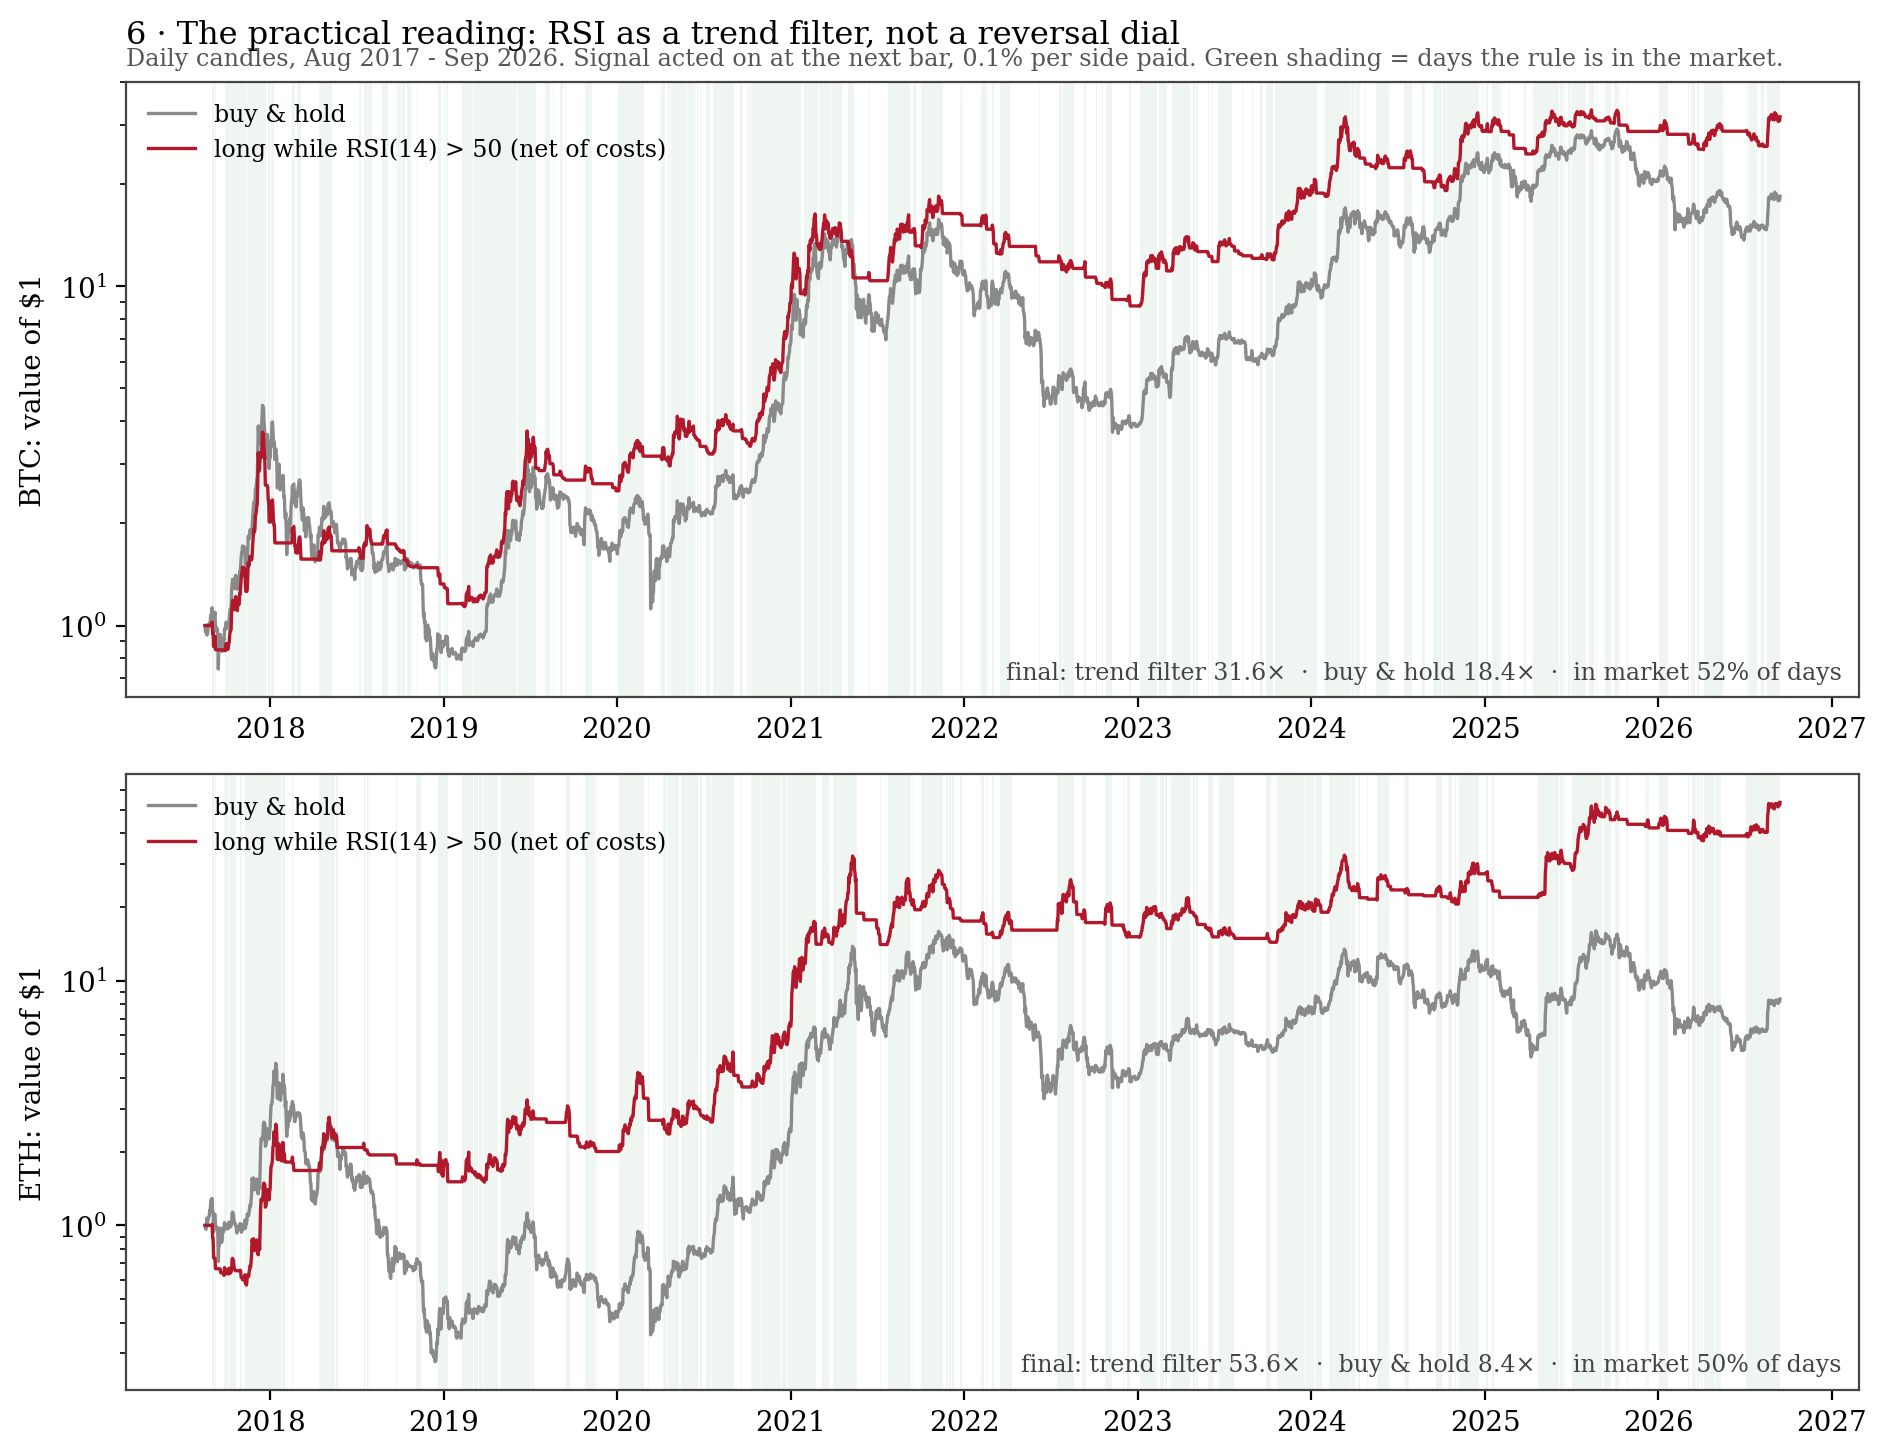
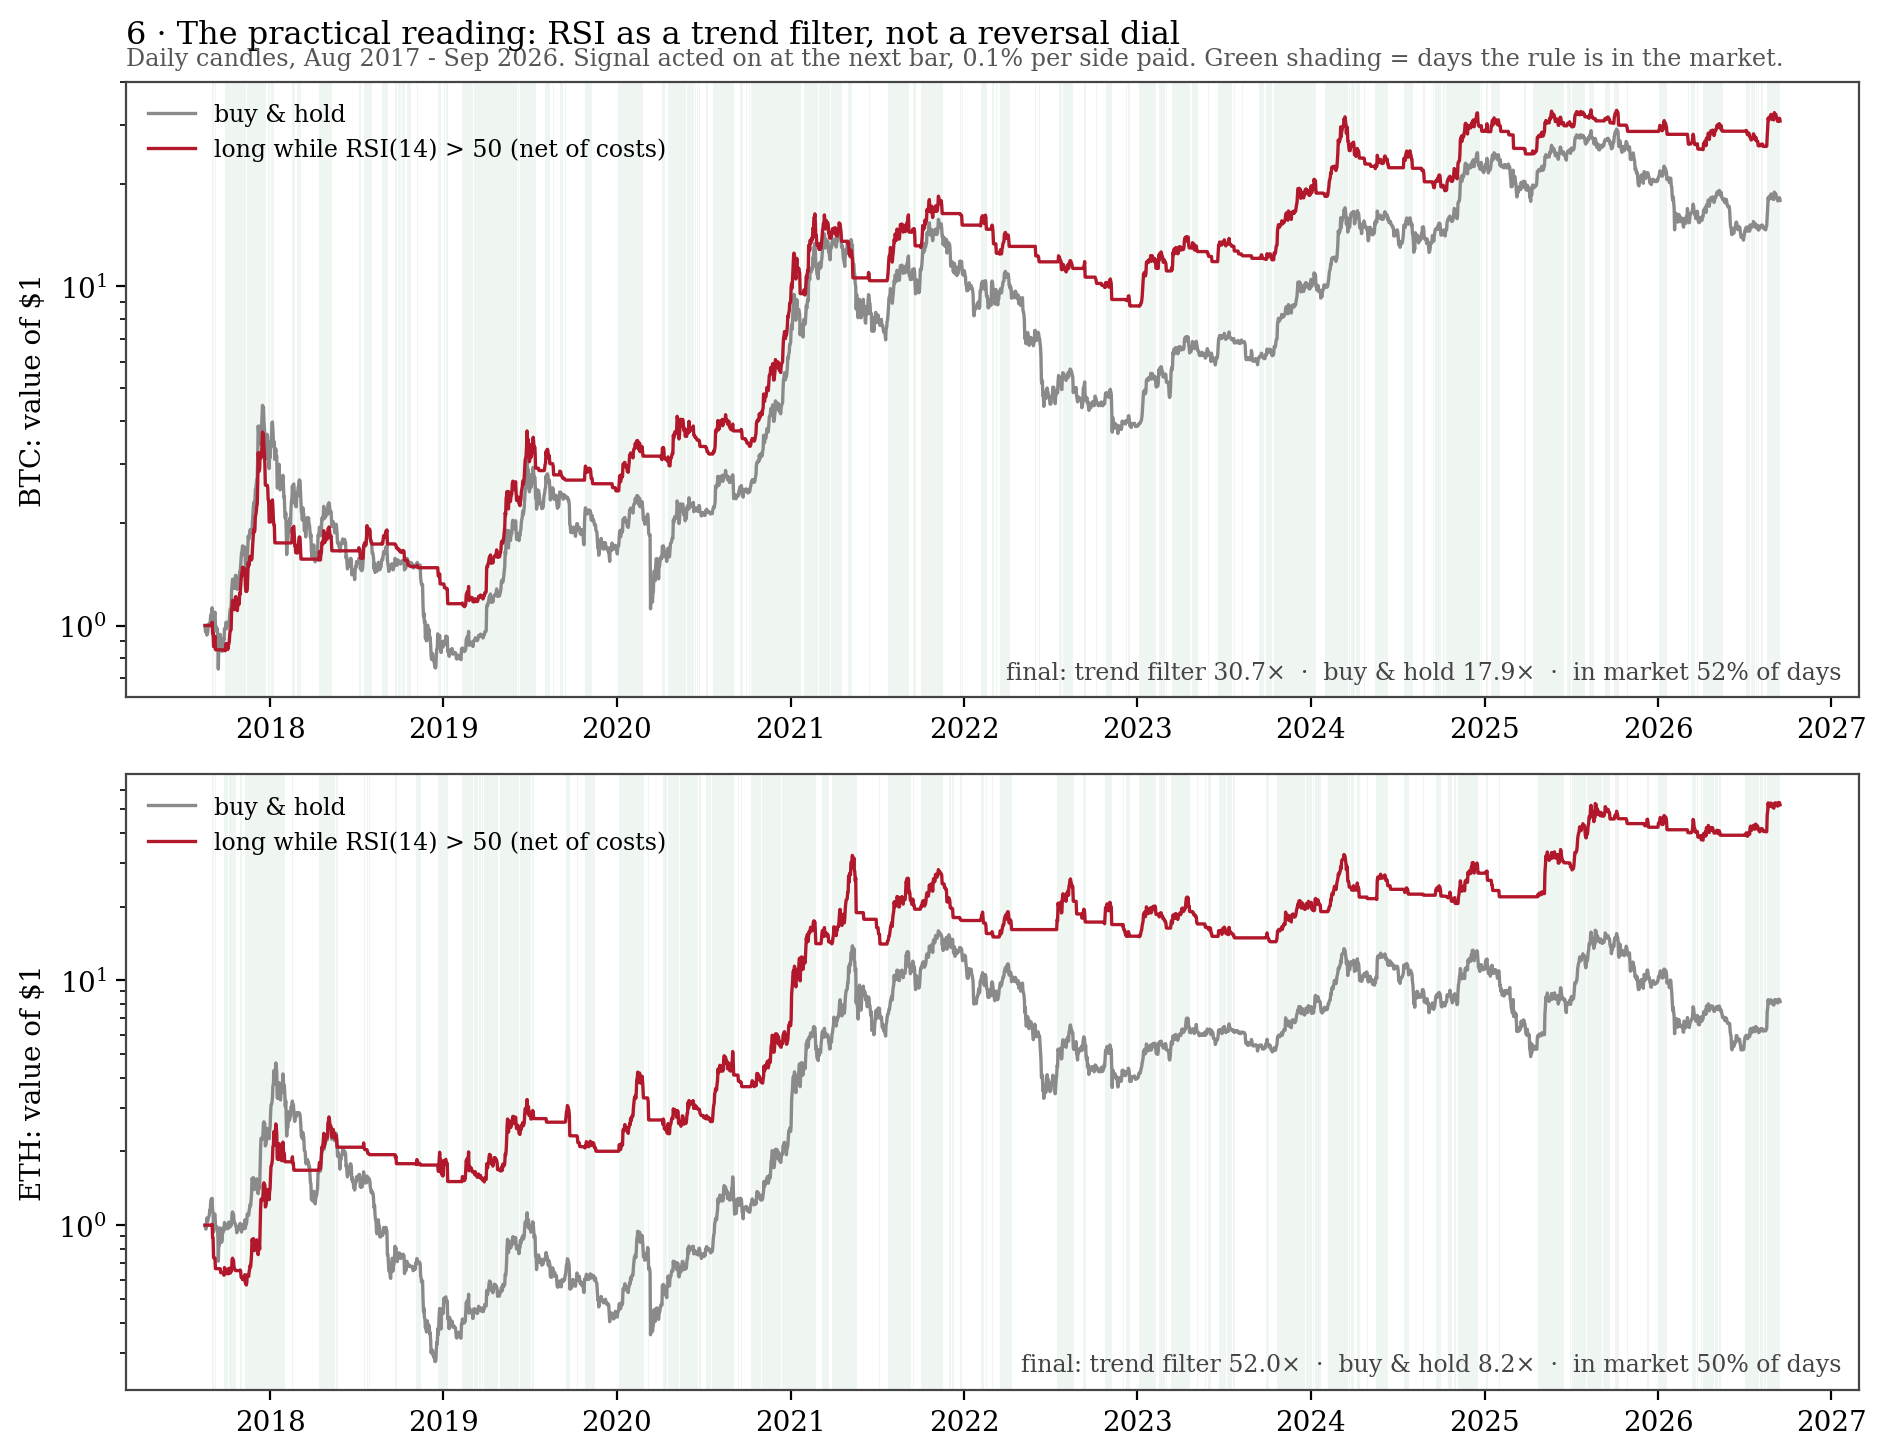
Fix overlapping labels in the 4h cost figure (explain_7_costs)
Bar tags are short one-line multipliers; per-asset switch counts moved
into the x tick labels (one line per window group); two-line subtitle
wrapped with extra title clearance; wider canvas so tick labels fit.

diff --git a/teaching_figures.py b/teaching_figures.py
@@ -37,8 +37,9 @@ def save(fig, name):
     print(f"saved {name}")
 
 
-def title(ax, main, sub=None):
-    ax.set_title(main, fontsize=11.5, loc="left", pad=14 if sub else 6)
+def title(ax, main, sub=None, pad=None):
+    ax.set_title(main, fontsize=11.5, loc="left",
+                 pad=pad if pad is not None else (14 if sub else 6))
     if sub:
         ax.text(0, 1.02, sub, transform=ax.transAxes, fontsize=8.6,
                 color="#555555", va="bottom")
@@ -287,12 +288,14 @@ def fig7_costs():
     """The cost guillotine at 4h: fast windows churn, fees compound into ruin."""
     windows = [2, 4, 7, 14, 21, 30]
     x = np.arange(len(windows))
-    fig, ax = plt.subplots(figsize=(10, 5.0))
+    fig, ax = plt.subplots(figsize=(10.8, 5.4))
     years = 0.0
     tops = []
+    churns, bhs, idx4 = {}, {}, None
     for sym, off, col, lab in [("BTCUSDT", -0.19, UP, "BTC"),
                                ("ETHUSDT", 0.19, DOWN, "ETH")]:
         df = scan.load(sym, "4h")
+        idx4 = df.index
         years = max(years, (df.index[-1] - df.index[0]).days / 365.25)
         r = df["close"].pct_change(fill_method=None).fillna(0.0)
         mult, churn = [], []
@@ -302,30 +305,33 @@ def fig7_costs():
             s = pos * r - pos.diff().abs().fillna(0.0) * scan.COST_PER_SIDE
             mult.append((1.0 + s).prod())
             churn.append(int(pos.diff().abs().sum()))
+        churns[lab] = churn
         tops += mult
         bars = ax.bar(x + off, mult, width=0.36, color=col,
                       label=f"{lab}: trend filter (RSI > 50), compounded net of costs")
-        for b, m, c in zip(bars, mult, churn):
-            ax.text(b.get_x() + b.get_width() / 2, max(m, 0) + 0.35,
-                    f"{m:.2f}×\n{c:,} switches", ha="center", va="bottom",
-                    fontsize=7.8, color="#444444")
+        # single short tag above each bar; switch counts live in the tick labels
+        for b, m in zip(bars, mult):
+            ax.text(b.get_x() + b.get_width() / 2, m + 0.3, f"{m:.1f}×",
+                    ha="center", va="bottom", fontsize=8.2, color="#444444")
         bh = df["close"].iloc[-1] / df["close"].iloc[0]
+        bhs[lab] = bh
         tops.append(bh)
         ax.axhline(bh, color=col, lw=0.9, ls=":", alpha=0.8)
-        ax.text(0.01, bh + 0.3, f"{lab} buy & hold {bh:.0f}×",
+        ax.text(0.01, bh + 0.35, f"{lab} buy & hold {bh:.0f}×",
                 fontsize=8.2, color=col, ha="left",
                 transform=matplotlib.transforms.blended_transform_factory(
                     ax.transAxes, ax.transData))
     ax.axhline(0, color="#444444", lw=0.8)
-    ax.set_xticks(x, [f"RSI {n}" for n in windows])
+    ax.set_xticks(x, [f"RSI {n}\nBTC {churns['BTC'][i]:,} · ETH {churns['ETH'][i]:,}"
+                      for i, n in enumerate(windows)], fontsize=8.0)
     ax.set_ylabel(f"value of $1 after {years:.0f} years")
-    ax.set_ylim(0, max(tops) * 1.18)
+    ax.set_ylim(0, max(tops) * 1.22)
     ax.legend(fontsize=8.5, frameon=False, loc="upper left")
-    idx4 = scan.load("BTCUSDT", "4h").index
     title(ax, "7 · The cost guillotine at 4h",
           f"Same rule, different RSI windows, 4h candles ({idx4[0]:%b %Y} - {idx4[-1]:%b %Y}), "
-          "0.1% paid per side. "
-          "Fast windows flip thousands of times and the fees compound into ruin; only slow windows keep the edge.")
+          "0.1% paid per side; position switches (BTC · ETH) under each group.\n"
+          "Fast windows flip thousands of times and the fees compound into ruin; "
+          "only slow windows keep the edge.", pad=34)
     fig.tight_layout()
     save(fig, "explain_7_costs.png")
 
